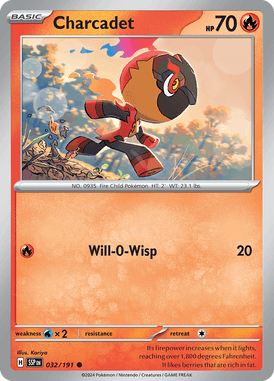
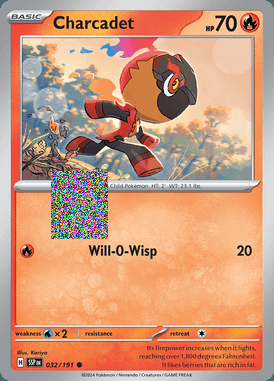
fix: use fakeimg_augmented for mosaic backgrounds
- Change mosaic.py FAKE_DIR from 'fakeimg' to 'fakeimg_augmented'
- Update README to clarify workflow: fakeimg (raw Random Erasing)  fakeimg_augmented (augmented backgrounds)
- Replace example image with augmented version from fakeimg_augmented/
- Mosaic now uses properly augmented background images

diff --git a/mosaic.py b/mosaic.py
@@ -28,7 +28,7 @@ NUM_VARIATIONS_ALL = 50
 
 # Répertoires d'entrée et de sortie
 INPUT_DIRS = [os.path.join("output", "augmented", "images")]
-FAKE_DIR = "fakeimg"
+FAKE_DIR = "fakeimg_augmented"  # Utilise les fausses cartes augmentées
 MOSAIC_DIR = "mosaic"  # pour background_mode==1
 
 # ----- Nouveaux dossiers pour YOLOv8 -----

diff --git a/README.md b/README.md
@@ -15,7 +15,7 @@ Un outil complet pour générer des datasets d'images de cartes Pokémon augment
 <br/>
 <strong>Fake Background</strong>
 <br/>
-<em>Carte avec Random Erasing</em>
+<em>Random Erasing + Augmentation</em>
 </td>
 <td align="center">
 <img src="examples/example_augmented.png" alt="Augmented Card" width="250"/>
@@ -65,9 +65,10 @@ Un outil complet pour générer des datasets d'images de cartes Pokémon augment
 - Annotations YOLO avec polygones à 4 points
 
 ### 🖼 Fausses Cartes (Random Erasing)
-- Génération de cartes avec zones effacées
+- Génération de cartes avec zones effacées (**Random Erasing**)
 - Probabilité d'effacement configurable (0.0 - 1.0)
-- Utilisées comme fond de mosaïque
+- **Workflow** : `images/` → Random Erasing → `fakeimg/` → Augmentation → `fakeimg_augmented/`
+- Les images dans `fakeimg_augmented/` sont utilisées comme **fond de mosaïque**
 
 ### 🖥 Interface Graphique Moderne (GUI v2.0)
 - **Dashboard** avec statistiques en temps réel
@@ -175,8 +176,8 @@ Pokemons/
 │
 ├── 📂 Dossiers de Données
 │   ├── images/                    # 📥 Cartes sources (INPUT)
-│   ├── fakeimg/                   # Fausses cartes temporaires (générées)
-│   ├── fakeimg_augmented/         # Fausses cartes traitées (générées)
+│   ├── fakeimg/                   # Fausses cartes brutes (générées par Random Erasing)
+│   ├── fakeimg_augmented/         # Fausses cartes augmentées (utilisées comme fond pour mosaïques)
 │   ├── examples/                  # 🖼 Images d'exemple pour README
 │   └── output/
 │       ├── augmented/
